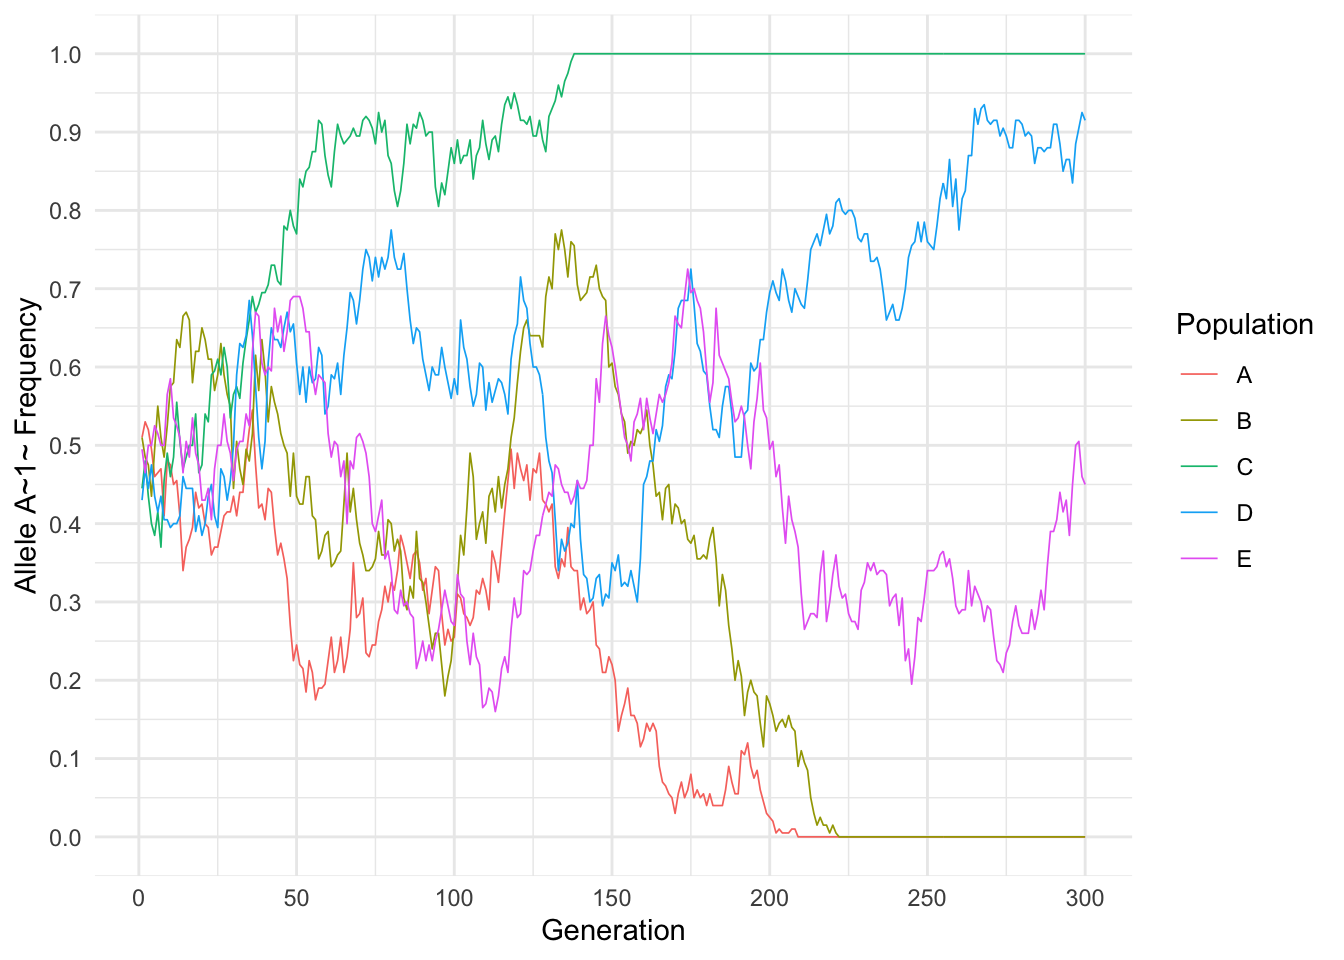
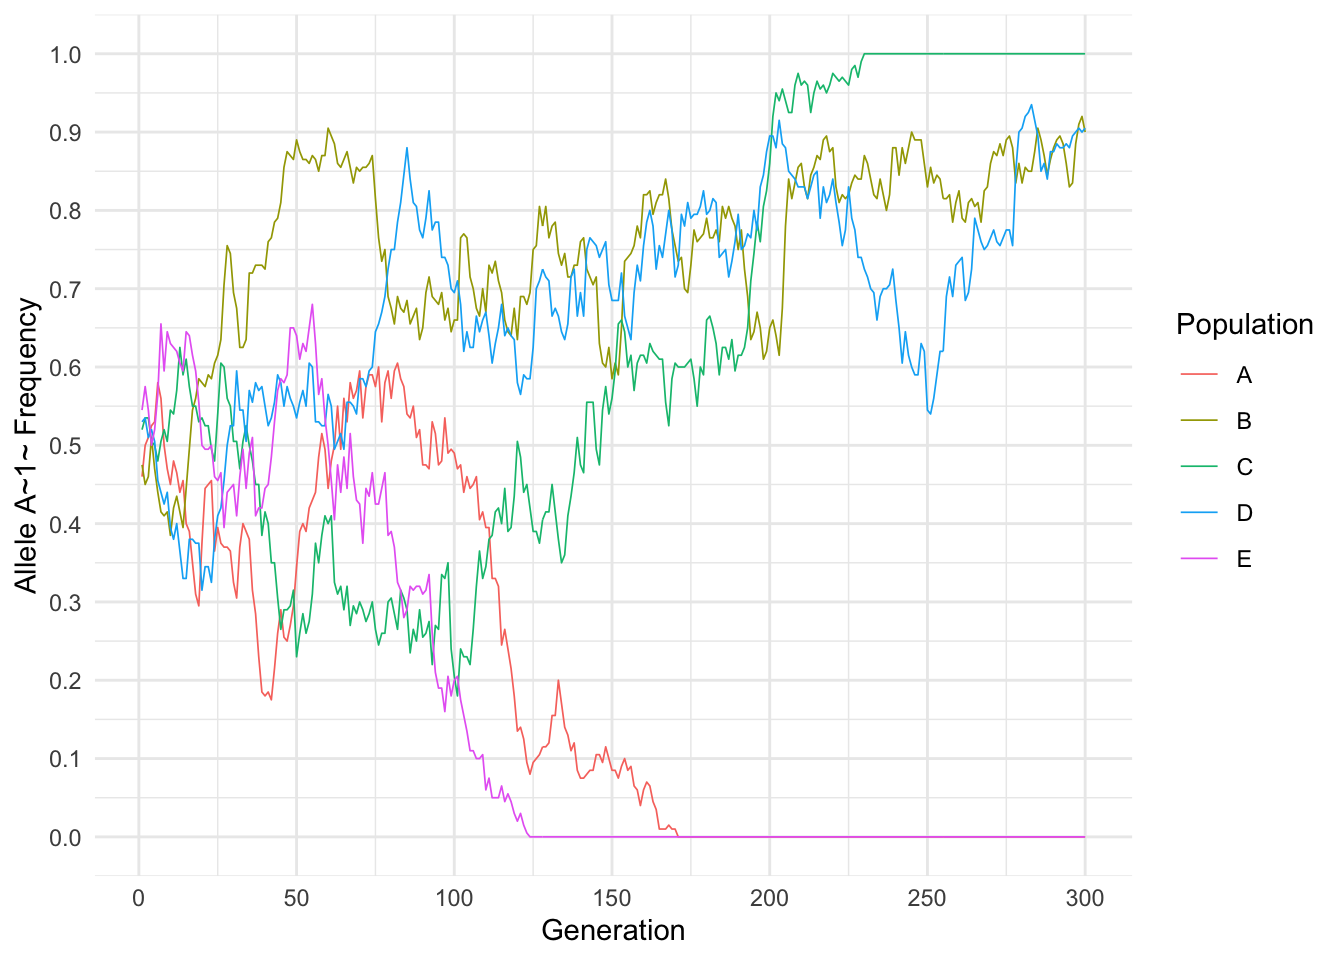
expand final results

diff --git a/docs/notebooks/hardy-weinberg/hardy-weinberg-chisq-eider-duck.html b/docs/notebooks/hardy-weinberg/hardy-weinberg-chisq-eider-duck.html
@@ -467,26 +467,47 @@ q&amp;=\frac{\text{Total number of S alleles}}{\text{Total number of alleles}}\\
 </div>
 </div>
 <div class="cell">
-<div class="sourceCode cell-code" id="cb6"><pre class="sourceCode r code-with-copy"><code class="sourceCode r"><span id="cb6-1"><a href="#cb6-1" aria-hidden="true" tabindex="-1"></a><span class="co"># expected counts</span></span>
-<span id="cb6-2"><a href="#cb6-2" aria-hidden="true" tabindex="-1"></a>expected <span class="ot">&lt;-</span> N <span class="sc">*</span> <span class="fu">c</span>(p<span class="sc">^</span><span class="dv">2</span>, <span class="dv">2</span> <span class="sc">*</span> p <span class="sc">*</span> q, q<span class="sc">^</span><span class="dv">2</span>)</span></code><button title="Copy to Clipboard" class="code-copy-button"><i class="bi"></i></button></pre></div>
+<div class="sourceCode cell-code" id="cb6"><pre class="sourceCode r code-with-copy"><code class="sourceCode r"><span id="cb6-1"><a href="#cb6-1" aria-hidden="true" tabindex="-1"></a><span class="co"># Expected genotype frequencies under HW</span></span>
+<span id="cb6-2"><a href="#cb6-2" aria-hidden="true" tabindex="-1"></a>expected_frequencies <span class="ot">&lt;-</span> <span class="fu">c</span>(p<span class="sc">^</span><span class="dv">2</span>, <span class="dv">2</span> <span class="sc">*</span> p <span class="sc">*</span> q, q<span class="sc">^</span><span class="dv">2</span>)</span></code><button title="Copy to Clipboard" class="code-copy-button"><i class="bi"></i></button></pre></div>
 </div>
 <div class="cell">
 <div class="cell-output cell-output-stdout">
-<pre><code>Observed: </code></pre>
+<pre><code>Expected genotype Frequencies:</code></pre>
+</div>
+<div class="cell-output cell-output-stdout">
+<pre><code>p^2 (FF genotype) = 0.5349</code></pre>
+</div>
+<div class="cell-output cell-output-stdout">
+<pre><code>2pq (FS genotype) = 0.3930</code></pre>
+</div>
+<div class="cell-output cell-output-stdout">
+<pre><code>q^2 (SS genotype) = 0.0722</code></pre>
+</div>
+<div class="cell-output cell-output-stdout">
+<pre><code>p^2 + 2pq + q^2 = 1.0000</code></pre>
+</div>
+</div>
+<div class="cell">
+<div class="sourceCode cell-code" id="cb12"><pre class="sourceCode r code-with-copy"><code class="sourceCode r"><span id="cb12-1"><a href="#cb12-1" aria-hidden="true" tabindex="-1"></a><span class="co"># expected counts</span></span>
+<span id="cb12-2"><a href="#cb12-2" aria-hidden="true" tabindex="-1"></a>expected <span class="ot">&lt;-</span> N <span class="sc">*</span> <span class="fu">c</span>(p<span class="sc">^</span><span class="dv">2</span>, <span class="dv">2</span> <span class="sc">*</span> p <span class="sc">*</span> q, q<span class="sc">^</span><span class="dv">2</span>)</span></code><button title="Copy to Clipboard" class="code-copy-button"><i class="bi"></i></button></pre></div>
+</div>
+<div class="cell">
+<div class="cell-output cell-output-stdout">
+<pre><code>Observed counts: </code></pre>
 </div>
 <div class="cell-output cell-output-stdout">
 <pre><code>37 24 6</code></pre>
 </div>
 <div class="cell-output cell-output-stdout">
-<pre><code>Expected: </code></pre>
+<pre><code>Expected counts: </code></pre>
 </div>
 <div class="cell-output cell-output-stdout">
 <pre><code>35.84 26.33 4.84</code></pre>
 </div>
 </div>
 <div class="cell">
-<div class="sourceCode cell-code" id="cb11"><pre class="sourceCode r code-with-copy"><code class="sourceCode r"><span id="cb11-1"><a href="#cb11-1" aria-hidden="true" tabindex="-1"></a><span class="co"># calculate chi-squared (X2 )statistic</span></span>
-<span id="cb11-2"><a href="#cb11-2" aria-hidden="true" tabindex="-1"></a>X2 <span class="ot">&lt;-</span> <span class="fu">sum</span>((observed <span class="sc">-</span> expected)<span class="sc">^</span><span class="dv">2</span> <span class="sc">/</span> expected)</span></code><button title="Copy to Clipboard" class="code-copy-button"><i class="bi"></i></button></pre></div>
+<div class="sourceCode cell-code" id="cb17"><pre class="sourceCode r code-with-copy"><code class="sourceCode r"><span id="cb17-1"><a href="#cb17-1" aria-hidden="true" tabindex="-1"></a><span class="co"># calculate chi-squared (X2 )statistic</span></span>
+<span id="cb17-2"><a href="#cb17-2" aria-hidden="true" tabindex="-1"></a>X2 <span class="ot">&lt;-</span> <span class="fu">sum</span>((observed <span class="sc">-</span> expected)<span class="sc">^</span><span class="dv">2</span> <span class="sc">/</span> expected)</span></code><button title="Copy to Clipboard" class="code-copy-button"><i class="bi"></i></button></pre></div>
 </div>
 <div class="cell">
 <div class="cell-output cell-output-stdout">
@@ -494,8 +515,8 @@ q&amp;=\frac{\text{Total number of S alleles}}{\text{Total number of alleles}}\\
 </div>
 </div>
 <div class="cell">
-<div class="sourceCode cell-code" id="cb13"><pre class="sourceCode r code-with-copy"><code class="sourceCode r"><span id="cb13-1"><a href="#cb13-1" aria-hidden="true" tabindex="-1"></a><span class="co"># calculate p-value</span></span>
-<span id="cb13-2"><a href="#cb13-2" aria-hidden="true" tabindex="-1"></a>p_value <span class="ot">&lt;-</span> <span class="fu">pchisq</span>(X2, <span class="at">df =</span> <span class="dv">1</span>, <span class="at">lower.tail =</span> <span class="cn">FALSE</span>)</span></code><button title="Copy to Clipboard" class="code-copy-button"><i class="bi"></i></button></pre></div>
+<div class="sourceCode cell-code" id="cb19"><pre class="sourceCode r code-with-copy"><code class="sourceCode r"><span id="cb19-1"><a href="#cb19-1" aria-hidden="true" tabindex="-1"></a><span class="co"># calculate p-value</span></span>
+<span id="cb19-2"><a href="#cb19-2" aria-hidden="true" tabindex="-1"></a>p_value <span class="ot">&lt;-</span> <span class="fu">pchisq</span>(X2, <span class="at">df =</span> <span class="dv">1</span>, <span class="at">lower.tail =</span> <span class="cn">FALSE</span>)</span></code><button title="Copy to Clipboard" class="code-copy-button"><i class="bi"></i></button></pre></div>
 </div>
 <div class="cell">
 <div class="cell-output cell-output-stdout">

diff --git a/docs/notebooks/genetic-drift.html b/docs/notebooks/genetic-drift.html
@@ -279,22 +279,22 @@ The following objects are masked from 'package:stats':
 <span id="cb6-8"><a href="#cb6-8" aria-hidden="true" tabindex="-1"></a>  new_population<span class="ot">&lt;-</span><span class="fu">slice_sample</span>(new_population,<span class="at">n=</span><span class="fu">nrow</span>(population), <span class="at">replace =</span> <span class="cn">TRUE</span>)</span>
 <span id="cb6-9"><a href="#cb6-9" aria-hidden="true" tabindex="-1"></a>}</span></code><button title="Copy to Clipboard" class="code-copy-button"><i class="bi"></i></button></pre></div>
 <div class="cell-output cell-output-stdout">
-<pre><code>[1] "1 10"
-[1] "2 9"
-[1] "3 8"
-[1] "4 7"
+<pre><code>[1] "1 12"
+[1] "2 15"
+[1] "3 11"
+[1] "4 10"
 [1] "5 7"
-[1] "6 7"
-[1] "7 11"
-[1] "8 11"
-[1] "9 10"
-[1] "10 13"
-[1] "11 17"
-[1] "12 17"
-[1] "13 17"
-[1] "14 16"
-[1] "15 18"
-[1] "16 20"</code></pre>
+[1] "6 10"
+[1] "7 7"
+[1] "8 8"
+[1] "9 8"
+[1] "10 5"
+[1] "11 7"
+[1] "12 8"
+[1] "13 5"
+[1] "14 5"
+[1] "15 2"
+[1] "16 0"</code></pre>
 </div>
 </div>
 </section>
